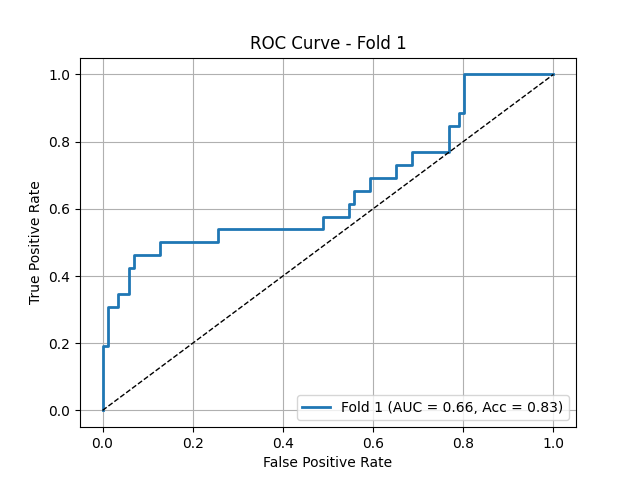
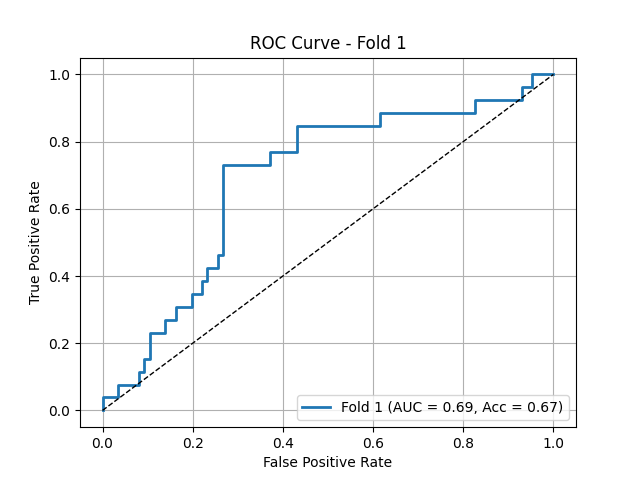
high grid distortion with 0.2 score weight

diff --git a/models_onlytorch.py b/models_onlytorch.py
@@ -353,10 +353,10 @@ class BinaryClassificationTorch(nn.Module):
         else:
             score, tails = self.forward(x)
             y2 = y.unsqueeze(-1).repeat((1, self.output_size)).squeeze()
-            loss = (self.loss_fn(score, y.float()) * 0.02 +
+            loss = (self.loss_fn(score, y.float()) * 0.2 +
                     self.loss_fn(tails[0], y2.float()) * 0.1 +
                     sum(self.loss_fn(t, y2.float()) for t in tails[1:]) +
-                    self.loss_fn2(score, y.float()) * 0.02 +
+                    self.loss_fn2(score, y.float()) * 0.2 +
                     self.loss_fn2(tails[0], y2.float()) * 0.1 +
                     sum(self.loss_fn2(t, y2.float()) for t in tails[1:]))
         return loss
